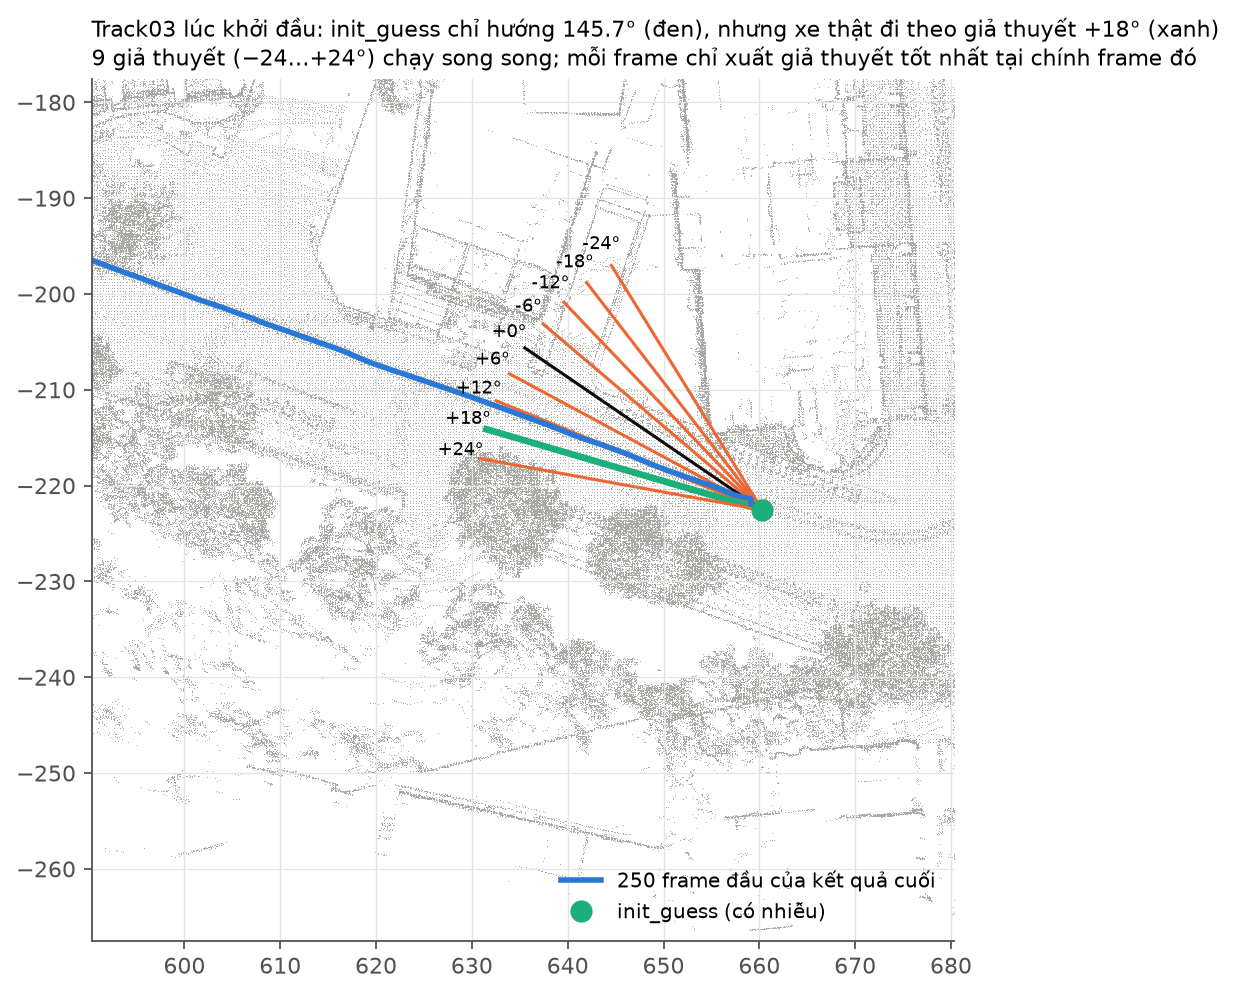
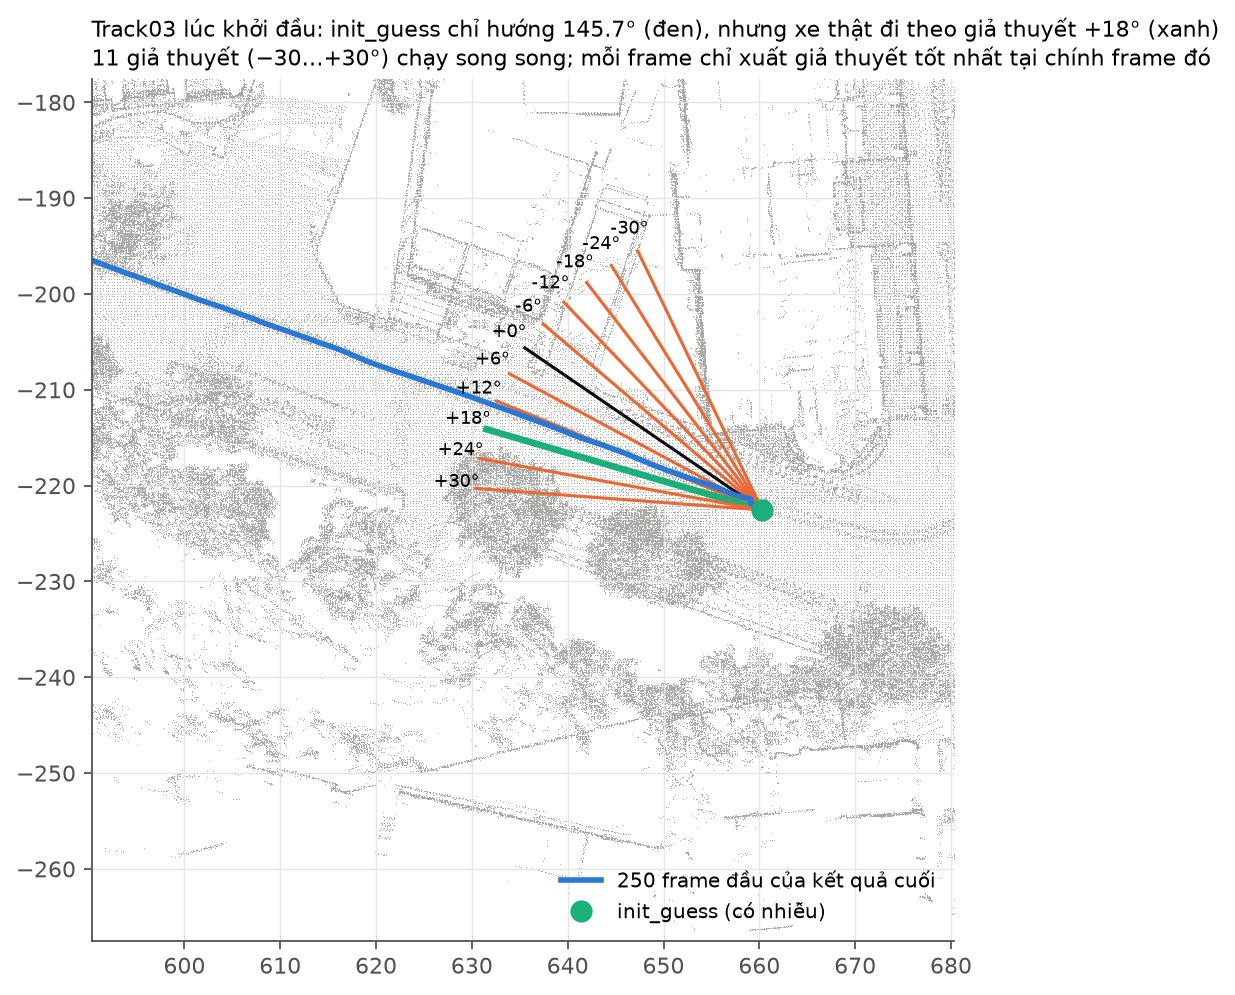
Fix: Track03 tracker starts with 11 yaw hypotheses (-30..+30, run_track3.sh), not 9; outline text and figure x12

diff --git a/docs/report/make_explain_figs.py b/docs/report/make_explain_figs.py
@@ -324,7 +324,7 @@ x0, y0 = T0[0, 3], T0[1, 3]
 sel = (np.abs(m3[:, 0] - x0) < 70) & (np.abs(m3[:, 1] - y0) < 60)
 fig, ax = plt.subplots(figsize=(10, 7))
 ax.scatter(m3[sel, 0], m3[sel, 1], s=0.2, c="#a9a9a5", linewidths=0)
-for off in range(-24, 25, 6):
+for off in range(-30, 31, 6):
     a_ = yaw0 + np.radians(off)
     ax.plot([x0, x0 + 30 * np.cos(a_)], [y0, y0 + 30 * np.sin(a_)], color=AQUA if off == 18 else (INK if off == 0 else ORANGE),
             lw=3 if off == 18 else 1.4)
@@ -336,7 +336,7 @@ ax.set_xlim(x0 - 70, x0 + 20)
 ax.set_ylim(y0 - 45, y0 + 45)
 ax.legend(fontsize=9, loc="lower right")
 ax.set_title(f"Track03 lúc khởi đầu: init_guess chỉ hướng {np.degrees(yaw0):.1f}° (đen), nhưng xe thật đi theo giả thuyết +18° (xanh)\n"
-             "9 giả thuyết (−24…+24°) chạy song song; mỗi frame chỉ xuất giả thuyết tốt nhất tại chính frame đó", loc="left", fontsize=10)
+             "11 giả thuyết (−30…+30°) chạy song song; mỗi frame chỉ xuất giả thuyết tốt nhất tại chính frame đó", loc="left", fontsize=10)
 save(fig, "x12_t3_mht.png")
 
 # =========================================================== 13. bản đồ ở các cỡ voxel
